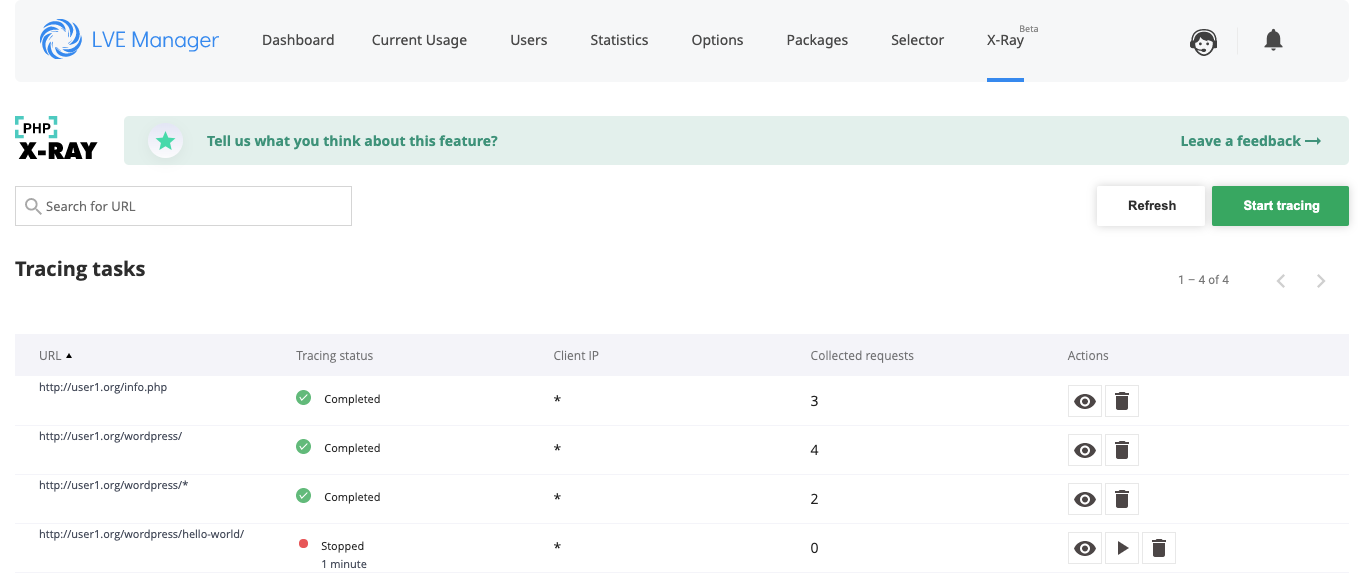
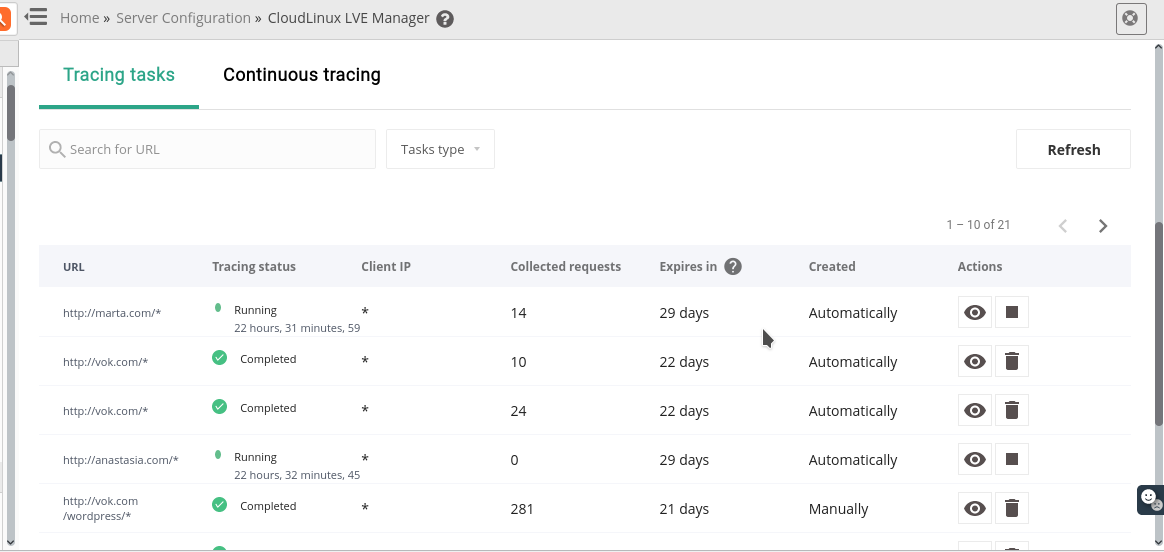
Continuos tasks docs

diff --git a/docs/cloudlinux-os-plus/README.md b/docs/cloudlinux-os-plus/README.md
@@ -44,10 +44,6 @@ Please note that <span class="notranslate">X-Ray</span> is a new experimental to
 
 <span class="notranslate">X-Ray</span> can gather and visualize information about top N slowest system functions, external requests, software modules and database queries of the client’s website.
 
-First release of <span class="notranslate">X-Ray</span> is offered for cPanel administrators and support to find the cause of website performance issues.
-
-<span class="notranslate">X-Ray</span> can monitor websites that were developed on cPanel hosts and use PHP (see [PHP version list](/cloudlinux-os-plus/#list-of-supported-php-versions)) or WordPress.
-
 ### Installation
 
 1. Make sure you are an approved X-Ray beta-tester (only non-reseller accounts apply)
@@ -102,7 +98,43 @@ First release of <span class="notranslate">X-Ray</span> is offered for cPanel ad
 
 ### How to manage X-Ray
 
-#### Create a new tracing task
+X-Ray provides two options for monitoring domain requests speed: Tracing task and Continuous task.
+
+:::warning Warning
+To use Continuous task, update your LVE Manager and alt-PHP-X-Ray packages to versions lvemanager-6.2.9-1 and alt-php-xray-0.2-1 by running the following command:
+```
+yum update lvemanager alt-php-xray  --enablerepo cloudlinux-updates-testing
+```
+::: 
+
+* **Tracing task** is a task created manually for a specific URL to collect server requests. The task will end either after a specified number of requests to the URL or after a specified time (maximum after two days). It is not possible here to automatically email a report but it is possible to export the report in PDF and send to a user.
+
+* **Continuous task** is a task that initiates a daily hourly tracing requests for a specified domain and email a monitoring report. Continuous task can't stop automatically, you need to stop it manually.
+
+In fact, continuous task allows to automatically create a tracing task for each new day, with the ability to get a report for the past day.
+
+#### Tracing tasks tab
+
+The *Tracing tasks* tab contains a list of all tracing tasks created both manually and automatically via continuous tasks.
+
+![](/images/XRayTracingTaskCreated.png)
+
+The *Created* column shows how a task was created – automatically (by continuous task) or manually.
+
+#### Continuous tracing tab
+
+:::warning Warning
+To use Continuous task, update your LVE Manager and alt-PHP-X-Ray packages to versions lvemanager-6.2.9-1 and alt-php-xray-0.2-1 by running the following command:
+```
+yum update lvemanager alt-php-xray  --enablerepo cloudlinux-updates-testing
+```
+::: 
+  
+The *Continuous tracing* tab contains a list of continuous tasks for which tracing tasks will be created automatically for a new day for a specific domain.
+
+![](/images/XRayContinuousTasksList.png)
+
+#### Creating a new tracing task manually
 
 1. Go to the <span class="notranslate">_X-Ray_</span> tab
 2. Click the <span class="notranslate">_Start tracing_</span> button to create a new task
@@ -128,6 +160,24 @@ After creating, the task appears in the list of tracing tasks.
 
 ![](/images/XRayTrcingTaskList.png)
 
+#### Creating a new continuous task
+
+1. Click the *Create continuous tracing*  button 
+
+![](/images/XRayCreateContinuousTaskBtn.png)
+
+2. Specify URL in the *Domain* field and email in the *Email for reports* field and click the *Create* button.
+
+![](/images/XRayCreateContinuousTaskForm.png)
+
+3. You can see a new task in the *Continuous tracing* tab in the X-Ray UI.
+
+![](/images/XRayContinuousTracingTab.png)
+
+4. If you stop a continuous tracing task, a new task for the next 24 hours will not be created. The task for the current day will be finished at midnight and the report will be emailed.
+
+5. If you delete a continuous tracing task, the task for the current day will be finished at midnight and the report will be emailed.
+
 #### View tracing tasks list
 
 ![](/images/XRayTrcingTaskList1.png)
@@ -141,7 +191,7 @@ A tracing task can have the following statuses:
 * <span class="notranslate">**On hold**</span> – the same URL already exists in the lists. Task processing will not start automatically. Administrator should start it manually.
 * <span class="notranslate">**Completed**</span> – period of time is finished or number of requests is reached.
 
-#### Stop tracing task
+#### Stopping tracing task
 
 Click ![](/images/XRayStop.png) to stop the tracing task.
 
@@ -149,13 +199,27 @@ Click ![](/images/XRayStop.png) to stop the tracing task.
 
 The tracing task status will be changed to <span class="notranslate">**Stopped**</span>. Data will not be collected anymore but you can see already collected information or continue tracing later by clicking ![](/images/XRayStart.png).
 
-#### Delete tracing task 
+
+#### Stopping automatic tracing task
+
+Stopping automatic tracing task (a part of continuous tracing task) affects only the automatic tracing task for the current day. A new task for the next day will be created at the end of the day.
+
+To stop the continuous tracing task completely, see [Creating a new continuous task, paragraph 4](/cloudlinux-os-plus/#creating-a-new-continuous-task).
+
+#### Deleting tracing task 
 
 Click ![](/images/XRayDelete.png) to delete the tracing task.
 
 :::warning Warning!
 When you have deleted a tracing task, all collected data will be unavailable.
 :::
+
+#### Deleting automatic tracing task
+
+Deleting automatic tracing task (a part of continuous tracing task) affects only the automatic tracing task for the current day. A new task for the next day will be created at the end of the day.
+
+To delete the continuous tracing task completely, see [Creating a new continuous task, paragraph 5](/cloudlinux-os-plus/#creating-a-new-continuous-task).
+
 
 #### View collected requests for tracing task
 
